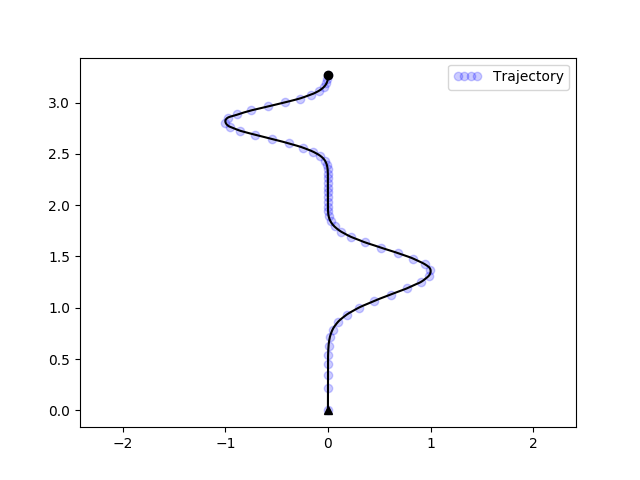
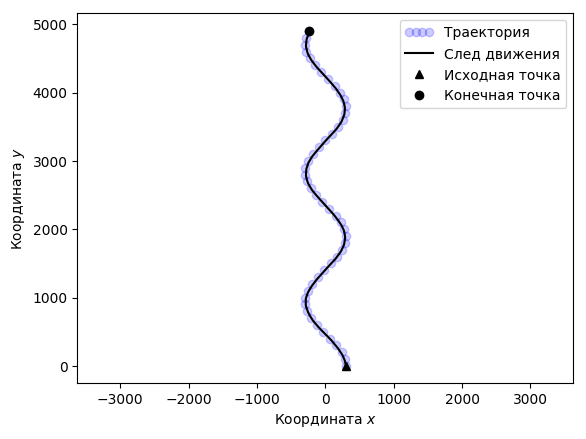
График траектории мастера

Changed region(s): [[0.0, 0.0296, 0.9829, 0.9772], [0.0614, 0.0296, 0.1536, 0.0888], [0.9522, 0.8588, 0.9829, 0.8884]]

diff --git a/simulation.py b/simulation.py
@@ -1,6 +1,10 @@
 import numpy as np
-import matplotlib.pyplot as plt
+
+import matplotlib
+
+
 import math
+import matplotlib.pyplot as plt
 from base import RV, V, angle, to_degree, norm
 from models import PlatoonStruct, TargetAgent, TrajectoryAgent, TrajectoryPlatoon
 from agents import DiracAgent, HeavisideAgent
@@ -13,23 +17,23 @@ if __name__ == '__main__':
     relations = [None, 0, 0]
     ps = PlatoonStruct(points, orientation, relations)
 
-    trajectory = [V(300 * math.cos(x / 300), x) for x in np.arange(0, 5000, 50)]
+    trajectory = [V(300 * math.cos(x / 300), x) for x in np.arange(0, 5000, 100)]
 
     master = TrajectoryAgent(trajectory, 60) # Находится в V(0, 0)
     minions = [TargetAgent(), TargetAgent()]
     tp = TrajectoryPlatoon(master=master, minions=minions, platoon_struct=ps)
 
-    times = np.arange(0, 983, 1)
+    times = np.arange(0, 1100, 1)
     for t in times:
         tp.update()
 
-    # traj,  = plt.plot([p.x for p in trajectory], [p.y for p in trajectory], 'bo', alpha=0.2, label='Trajectory')
-    # plt.plot([p.x for p in tp.master.story.positions], [p.y for p in tp.master.story.positions], 'black')
-    # plt.plot(tp.master.story.positions[0].x, tp.master.story.positions[0].y, 'black', marker='^')
-    # plt.plot(tp.master.story.positions[-1].x, tp.master.story.positions[-1].y, 'black', marker='o')
+    traj,  = plt.plot([p.x for p in trajectory], [p.y for p in trajectory], 'bo', alpha=0.2, label='Траектория')
+    track, = plt.plot([p.x for p in tp.master.story.positions], [p.y for p in tp.master.story.positions], 'black', label='След движения')
+    s, = plt.plot(tp.master.story.positions[0].x, tp.master.story.positions[0].y, 'k^', label='Исходная точка')
+    f, = plt.plot(tp.master.story.positions[-1].x, tp.master.story.positions[-1].y, 'ko', label='Конечная точка')
     # plt.plot([p.x for p in tp.minions[0].story.positions], [p.y for p in tp.minions[0].story.positions])
     # plt.plot([p.x for p in tp.minions[1].story.positions], [p.y for p in tp.minions[1].story.positions])
-    # plt.axis('equal')
+    plt.axis('equal')
 
     # plt.plot([p.x for p in tp.targets[0]], [p.y for p in tp.targets[0]])
     # plt.plot(times, [e for e in tp.minions_errors[0]])
@@ -37,17 +41,16 @@ if __name__ == '__main__':
     
 
     # print(list(map(abs, tp.master.story.velocitie)))
-    # plt.legend(handler_map={traj: HandlerLine2D(numpoints=4)})
-
+    plt.legend(handler_map={traj: HandlerLine2D(numpoints=4)}, handles=[traj, track, s, f], loc=1)
     # plt.plot(times, [abs(p) for p in tp.master.story.accelerations], 'black')
-    err, = plt.plot(times, [p for p in tp.master.d_story['vector_to_traj']], 'black', label='Отколонение')
-    plt.plot([i for i in range(-50, 1050)], [0 for _ in range(1100)], 'b--')
-    p, = plt.plot(200, 0, 'r.', label='Точка перепада')
-    plt.plot(404, 0, 'red', marker='.')
-    plt.plot(601, 0, 'red', marker='.'), plt.plot(799, 0, 'red', marker='.')
-    plt.ylabel('error')
-    plt.xlabel('time')
-    plt.legend(handles=[err, p], loc=1)
-    plt.savefig('text/master-trajectory-error.png', bbox_inches='tight')
+    # err, = plt.plot(times, [p for p in tp.master.d_story['vector_to_traj']], 'black', label='Отколонение')
+    # plt.plot([i for i in range(-50, 1050)], [0 for _ in range(1100)], 'b--')
+    # p, = plt.plot(200, 0, 'r.', label='Точка перепада')
+    # plt.plot(404, 0, 'red', marker='.')
+    # plt.plot(601, 0, 'red', marker='.'), plt.plot(799, 0, 'red', marker='.')
+    plt.ylabel('Координата $y$')
+    plt.xlabel('Координата $x$')
+    # plt.legend(handles=[err, p], loc=1)
+    plt.savefig('text/master-trajectory-0.png', bbox_inches='tight')
 
     plt.show()
